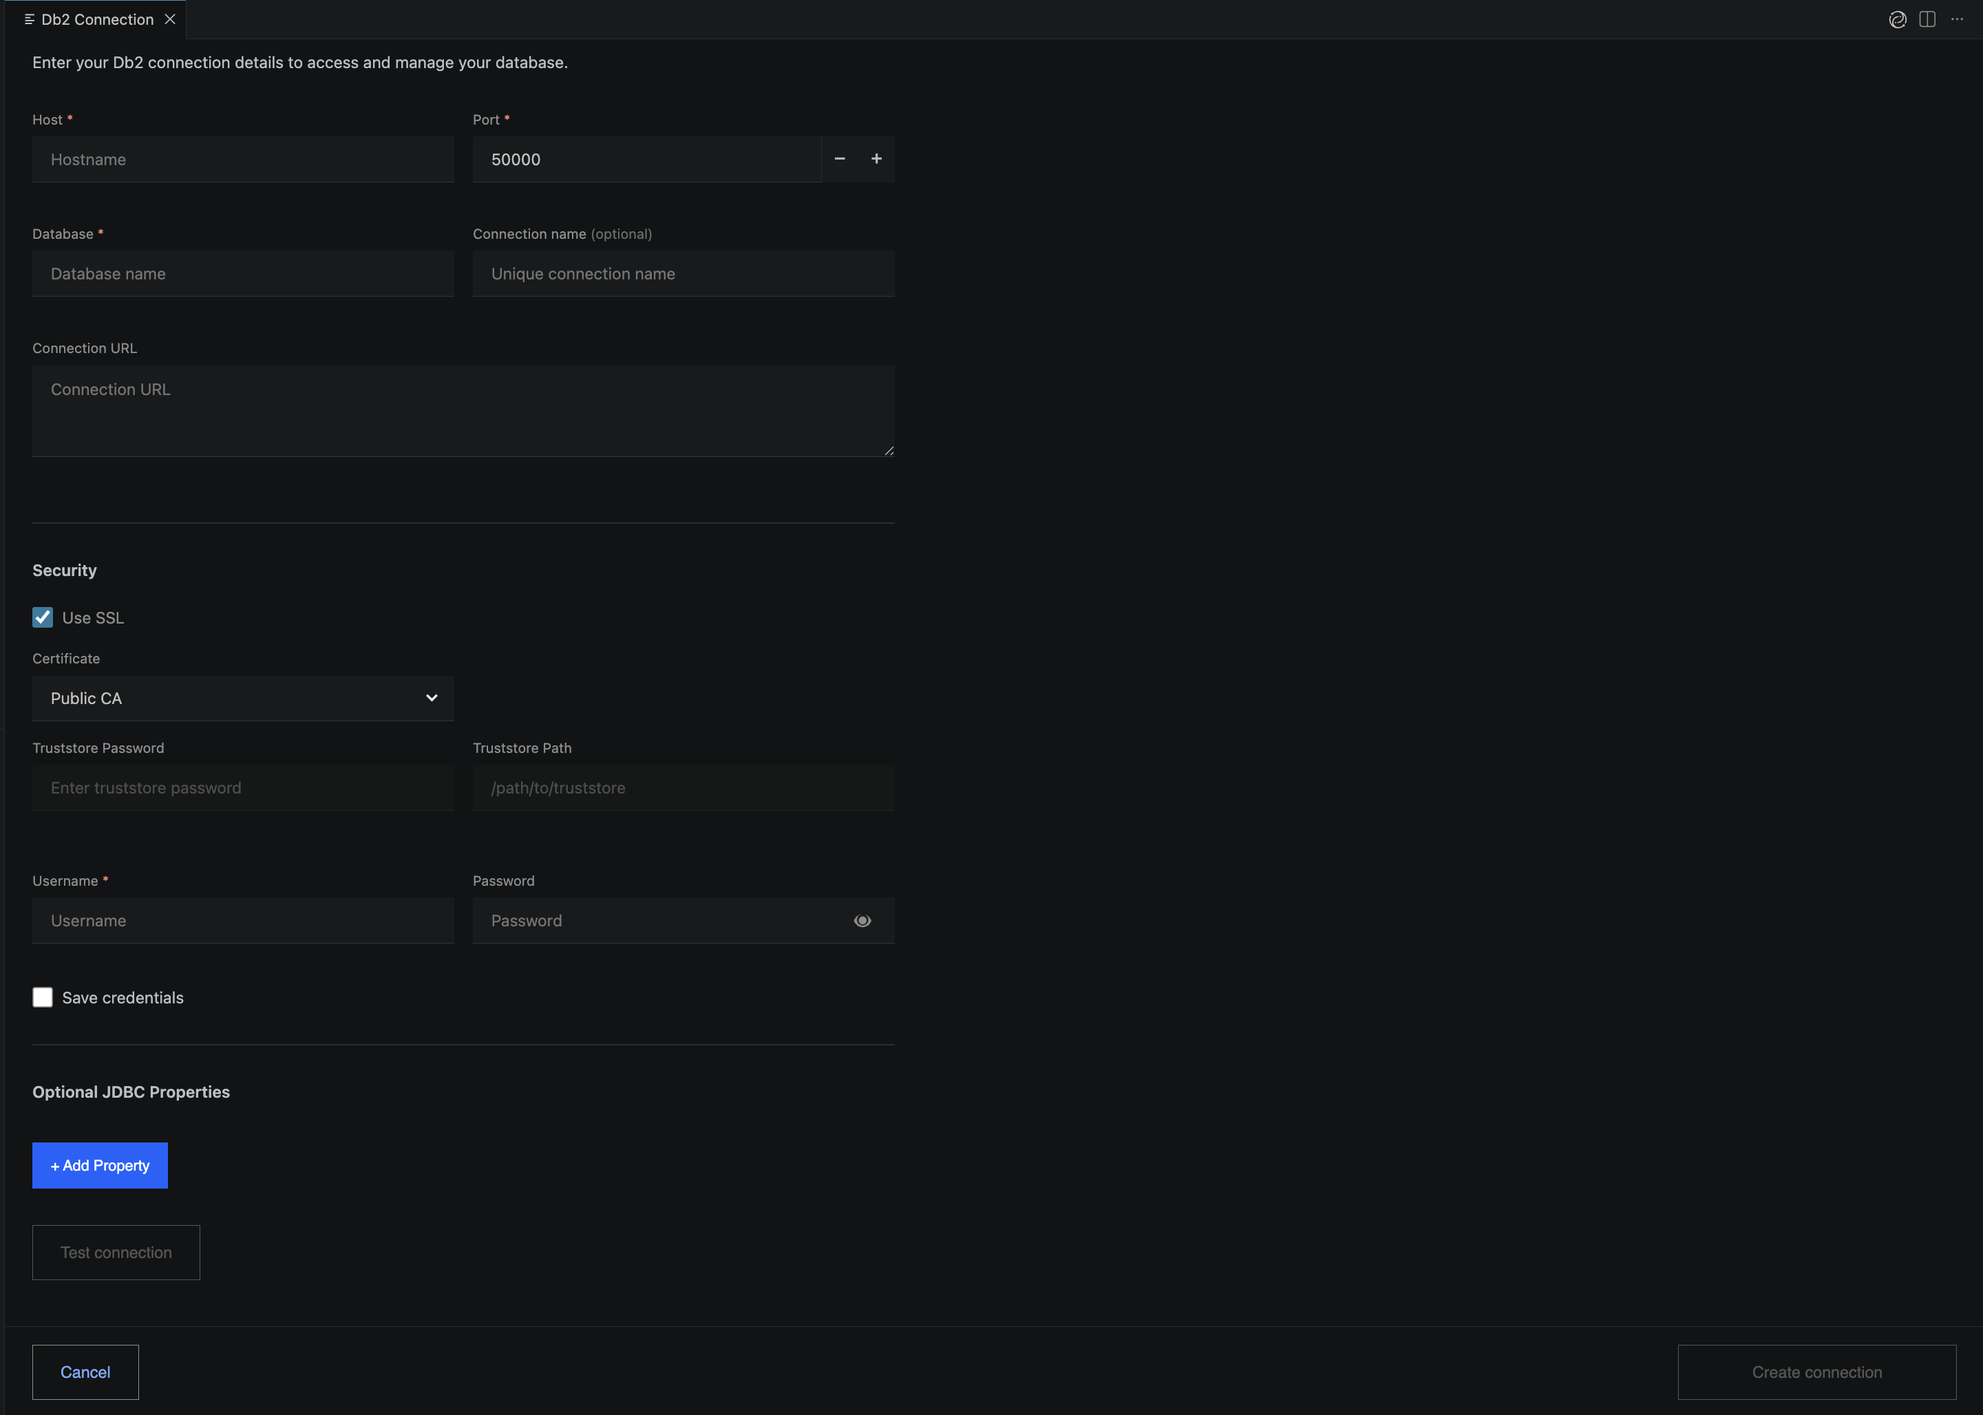
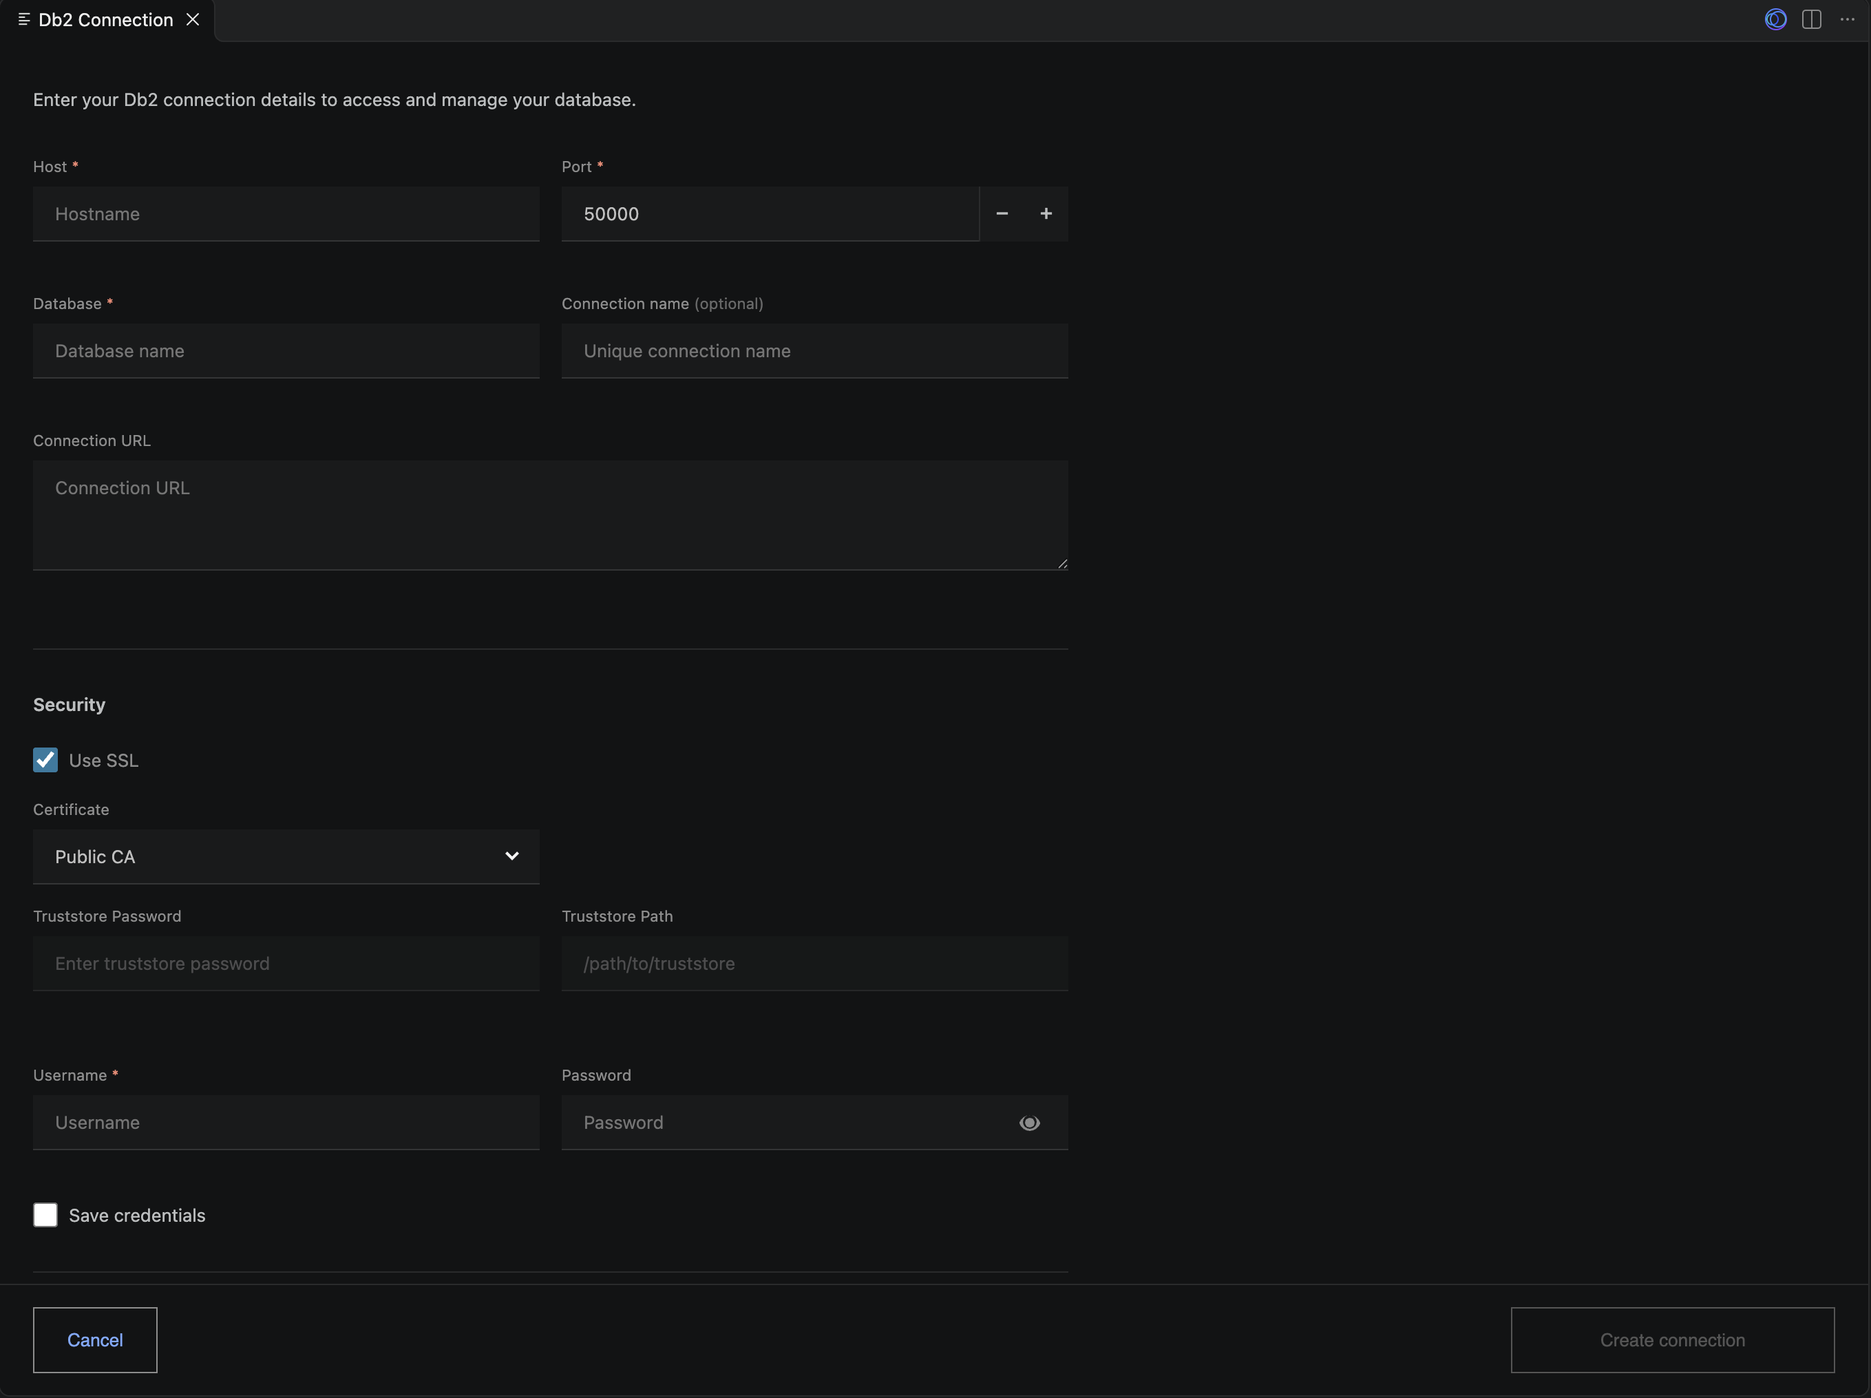
added topics

diff --git a/docs/working-with-Db2-objects/db2-time-machine.md b/docs/working-with-Db2-objects/db2-time-machine.md
@@ -4,56 +4,61 @@ title: "Viewing historical table data by using Db2 Time Machine"
 
 # {{ page.title }}
 
-Db2 Time Machine lets you view how the data in a temporal table looked at a specific point in time. You can compare the contents of a table at different times to understand how its data has changed. If a table doesn't track history yet, Db2 Time Machine shows the SQL statements that you need to run to enable it.
+Db2 Time Machine enables you to view how the data in a temporal table looked at a specific point in time. You can select a date and time to retrieve historical data and understand how records have changed over time.
+
+If a table does not track history yet, Db2 Time Machine provides an option to convert it into a temporal table by using Genius AI.
 
 ## Before you begin
 
-Db2 Time Machine is locked until you log in to Genius Hub. Log in to Genius Hub before you use the feature. For more information, see [Connecting to Genius Hub]({{site.baseurl}}/docs/working-with-sql/querying-data-by-using-natural-language#connecting-to-genius-hub).
+Db2 Time Machine requires you to log in to Genius Hub. Sign in through the **Account** view in the sidebar before using this feature.
 
+For more information, see [Connecting to Genius Hub]({{site.baseurl}}/docs/working-with-sql/querying-data-by-using-natural-language#connecting-to-genius-hub).
 
 ## Viewing the history of a temporal table
 
-A temporal table records every change (INSERT, UPDATE, and DELETE) so that you can query the data as it looked at any past moment.
+A temporal table maintains historical versions of its data, allowing you to retrieve records as they existed at a specific point in time.
 
 1. In the **Db2 Connections** pane, expand the connection, schema, and **Tables** folder.
-2. Right-click the table, and then click **See History**.
+2. Right-click the temporal table and select **See History**.
 
-   The table details open on the **Time Machine** tab. You can also open the table and click the **Time Machine** tab.
+   Alternatively, open the table and select the **Time Machine** tab.
 
-3. In the **View data as of** field, select the date and time that you want to view. To select the date and time, use one of the following methods:
-   - In the **Timeline navigator**, drag the slider to a year between 2000 and the current year, or click one of the **Jump to** buttons.
-   - Use the **Month**, **Day**, **Hour**, **Min**, and **Sec** lists to set the exact time.
-   - Click **Use current time** to select the current date and time.
+3. In the **Time Machine** view, select the date and time for which you want to retrieve historical data. You can use the following options:
+   - **Jump to**: Select one of the available year shortcuts to quickly navigate to a historical point in time.
+   - **Present time**: Select the current date and time.
+   - **Choose a date**: Select a specific date using the date picker.
+   - **Choose a time**: Specify the exact time using the time field and AM/PM selector.
+   - **Clear**: Reset the selected date and time.
 
-   The **Selected** label under the lists shows the date and time that you chose.
+4. Review the generated SQL query. Db2 Time Machine generates a query using the `FOR SYSTEM_TIME AS OF` clause and the selected timestamp. For example:
 
-4. Click **View history**.
+   ```sql
+   SELECT *
+   FROM "ALL_OBJECTS_WITH_DATA"."PRICE_HISTORY"
+   FOR SYSTEM_TIME AS OF TIMESTAMP('2026-11-09 16:27:26');
+   ```
 
-   
+5. Click **Run** to execute the query and retrieve the historical data.
 
-To compare the table at another point in time, select a different date and time, and then click **View history** again.
+   You can also use **Save** to save the generated SQL for later use.
 
-Each time you view the history of a table, IBM Db2 Genius Code saves an entry to **Query History** that starts with `Time Machine:` followed by the table name.
+Each time you execute a Time Machine query, an entry is added to **Query History**, making it easier to revisit previously executed historical queries.
 
 ## Enabling history tracking for a table
 
-If the table that you select is not a temporal table, the **Time Machine** tab shows the message **You can time travel through _table name_ soon** and indicates that the table does not yet track history.
+If the selected table is not temporal, the **Time Machine** tab displays a message indicating that the table does not track history yet.
 
-### Converting a table to a temporal table by using Genius AI
+You can convert the table into a temporal table by using Genius AI.
 
-1. On the **Time Machine** tab, click **Convert using Genius AI**.
+1. Open the non-temporal table and select the **Time Machine** tab.
+2. Click **Convert using Genius AI**.
+3. Genius AI generates the required SQL statements to enable temporal history tracking.
+4. Review the generated SQL and execute the statements to convert the table.
+5. Refresh the table and reopen the **Time Machine** tab to access historical data.
 
-   Genius AI generates the SQL statements needed to convert the table to a temporal table and displays them in the **Genius AI** panel.
+After history tracking is enabled, Db2 automatically maintains historical versions of the table data.
 
-2. Click **Open** (↗) to open the generated statements in the **Db2 SQL Editor**.
-3. Run the statements one by one in the order they are shown:
-   - **Step 1**: Add the system-period columns `SYS_START`, `SYS_END`, and `TRANS_ID` to the table.
-   - **Step 2**: Create a history table that has the same structure as the table. The history table name is the table name followed by `_HISTORY`.
-   - **Step 3**: Enable versioning by linking the base table to the history table.
-4. Refresh the table, and then open the **Time Machine** tab again.
+> **Note:** Db2 captures history only from the moment versioning is enabled. Changes made before enabling versioning are not tracked retroactively.
+{: .note-right}
 
-To learn more about temporal tables, click **Db2 docs** on the **Time Machine** tab.
-
-**Note:** Db2 captures history from the moment that versioning is enabled. Earlier changes are not tracked retroactively.
-
-
+To learn more about temporal tables, see the Db2 documentation available from the extension.

diff --git a/docs/the-basics/creating-a-database-connection.md b/docs/the-basics/creating-a-database-connection.md
@@ -65,26 +65,35 @@ You can see the following information about the instance:
 ---
 To work with IBM Db2 databases, you need to create a database connection to connect to the required database within the Db2 instance.
 
-1. In the **Db2 Connections** pane, click **Add connection** button or **Add connection** ![Adding a database connection]({{site.baseurl}}/assets/images/add-database-connection.png){:width="25" :height="25"} to open the **Db2 Connection** workflow in a new editor tab.
-![Adding a database connection]({{site.baseurl}}/assets/images/add-db2-connection.png)
+1. In the **Db2 Connections** pane, click **Add connection** or **Add connection** ![Adding a database connection]({{site.baseurl}}/assets/images/add-database-connection.png){:width="25" :height="25"} to open the **Db2 Connection** form in a new editor tab.
+
+   ![Adding a database connection]({{site.baseurl}}/assets/images/add-db2-connection.png)
 
 2. Enter the connection details by using one of the following methods:
-      - Enter the **Host**, **Port**, and **Database**. The extension automatically generates the **Connection URL** from these fields.
-      - Paste the JDBC URL for your Db2 database (for example, `jdbc:db2://<host>:<port>/<database>`) in the **Connection URL** field. The extension automatically populates the other fields from the URL.
+   - Enter the **Host**, **Port**, and **Database**. The extension automatically generates the **Connection URL** from these fields. The default port is `50000`.
+   - Paste the JDBC URL for your Db2 database (for example, `jdbc:db2://<host>:<port>/<database>`) in the **Connection URL** field. The extension automatically populates the other fields from the URL.
 
    Optionally, enter a unique **Connection name** to identify the connection in the **Db2 Connections** pane.
-3. (Optional) Under the **Security** section, select **Use SSL** to enable SSL encryption for the database connection. When enabled, SSL properties (such as `sslConnection=true` and `sslCertificateType=StandardCA`) are automatically added to **Optional JDBC Properties**, and you can configure:
-      - **Certificate**: Select the SSL certificate type (**Public CA** is selected by default; other options include **JKS** and **PKCS12**).
-      - **Truststore Password**: Enter the password for your truststore file (if applicable).
-      - **Truststore Path**: Provide the file system path to your truststore file (if applicable).
+
+3. Under the **Security** section, **Use SSL** is selected by default. SSL properties (`sslConnection=true` and `sslCertificateType=StandardCA`) are automatically added to **Optional JDBC Properties**. You can configure the following SSL options:
+   - **Certificate**: Select the SSL certificate type. **Public CA** is selected by default. Other options include **JKS** and **PKCS12**.
+   - **Truststore Password**: Enter the password for your truststore file (if applicable).
+   - **Truststore Path**: Provide the file system path to your truststore file (if applicable).
+
+   To disable SSL encryption, clear the **Use SSL** checkbox.
+
 4. Enter your connection credentials:
-      - **Username \***: Enter the username to access the Db2 database. (Required field).
-      - **Password**: Enter the password to access the Db2 database. You can click the eye icon to toggle password visibility.
+   - **Username \***: Enter the username to access the Db2 database. This is a required field.
+   - **Password**: Enter the password to access the Db2 database. Click the eye icon to toggle password visibility.
+
 5. (Optional) Select the **Save credentials** checkbox to save your credentials securely in Visual Studio Code. If you do not select this checkbox, the extension prompts you for the password each time that you connect.
-6. (Optional) In the **Optional JDBC Properties** section, review automatically populated properties or click **+ Add Property** to add custom JDBC connection properties as key-value pairs. Click **Remove** to delete a property.
+
+6. (Optional) In the **Optional JDBC Properties** section, review the automatically populated properties. When **Use SSL** is selected, `sslConnection` and `sslCertificateType` properties are pre-populated. To add a custom property, click **+ Add Property**. A new row with **Name** and **Value** fields appears. Enter the property name and value, and click **Remove** to delete the row if needed.
+
 7. (Optional) Click **Test connection** to verify the connection details before you create the connection.
+
 8. Click **Create connection**.
-   If your connection was created successfully, you can see it on the **Db2 Connections** pane. Click **Cancel** to close the tab without saving.
+   If the connection is created successfully, it appears in the **Db2 Connections** pane. Click **Cancel** to close the tab without saving.
 
 After you connect to the database, you can browse its schemas, data types, LOBs, and tables.
 

diff --git a/docs/the-basics/Exploring-Db2-objects.md b/docs/the-basics/Exploring-Db2-objects.md
@@ -38,23 +38,21 @@ When you click an object type in a schema, it expands to show all objects of tha
 
 ## Filtering schemas and tables {#filtering-objects}
 
-When you work with a large database, finding specific schemas or tables manually can take time. You can use the filter option (magnifying lens icon) in the **Db2 Connections** pane to narrow down the list:
+When you work with a large database, finding specific schemas or tables manually can take time. You can use the filter option in the **Db2 Connections** pane to narrow down the list:
 
 - **Filtering schemas under a database connection**:
-  1. Hover over a database connection and click the filter icon (magnifying lens).
+  1. Hover over a database connection and click **Filter schemas** (![Filter objects]({{site.baseurl}}/assets/images/filter-objects.png){:width="25" :height="25"}).
   2. In the input field that opens at the top of the editor, enter the schema name or pattern that you want to find.
   3. Press **Enter**. The connection expands to display only the matching schema.
 
 - **Filtering tables in a schema**:
-  1. Expand the schema, hover over **Tables**, and click the filter icon (magnifying lens).
+  1. Expand the schema, hover over **Tables**, and click **Filter objects** (![Filter objects]({{site.baseurl}}/assets/images/filter-objects.png){:width="25" :height="25"}).
   2. In the input field, enter the table name or prefix (for example, `emp`).
   3. Press **Enter**. The schema displays only the tables that match the criteria (for example, tables starting with `emp`).
 
 ### Removing a filter
 
-To remove filtering and restore the full list of schemas or tables:
-- Click the close button (**×**) next to the filtered item, or
-- Click the filter icon again, clear the input field (leave it empty), and press **Enter**.
+To remove filtering and restore the full list of schemas or tables, click the close button (**×**) next to the filtered item.
 
 ## Viewing table details in a schema {#tables-schema-id}
 
@@ -73,20 +71,20 @@ To remove filtering and restore the full list of schemas or tables:
    - Owner: The user who owns the table. 
    - Created time: Date and time when the table was created in the database.
    - Organization Type: Specifies how the data within the table is physically organized. Common types include row-organized or column-organized.
-2. Click the table name that you want to view (for example, EMPMDC table). It displays the following details. 
+2. Click the table name that you want to view. It displays the following details.
 
 
-   ![Connecting to database]({{site.baseurl}}/assets/images/single-table-details.png)
+   ![Table details]({{site.baseurl}}/assets/images/single-table-details.png)
 
 
    - Properties: General details such as table name, schema name, type, encoding scheme, owner.
-   - Columns: Lists all column names along with their data types and constraints.        
+   - Columns: Lists all column names along with their data types and constraints.
    - Constraints: Rules that apply to table columns.
    - Indexes: Shows relationships with other objects (like views or indexes).
    - Data: Shows the actual rows that are stored in the table.
    
    
-You can also view the details of a particular table by expanding the Tables section under the schema in the Db2 Connections pane and clicking the table name. For example, EMPMDC. For more information about the table properties, see [Exploring table object details](../working-with-Db2-objects/Db2-objects.md).
+You can also view the details of a particular table by expanding the **Tables** section under the schema in the **Db2 Connections** pane and clicking the table name. For more information about the table properties, see [Exploring table object details](../working-with-Db2-objects/Db2-objects.md).
 
 
 You can follow the same process to explore other Db2 objects. 

diff --git a/docs/working-with-Db2-objects/Db2-objects.md b/docs/working-with-Db2-objects/Db2-objects.md
@@ -17,28 +17,29 @@ In Db2, every table is associated with a set of metadata and structural componen
 1. Click the database connection and then the schema that you want.
 2. Expand the **Tables** section and click the table name. It shows the following table details:
 
-      ![Adding a database connection]({{site.baseurl}}/assets/images/table-properties.png)
+      ![Table properties]({{site.baseurl}}/assets/images/single-table-details.png)
 
       
-   **Properties**: General details such as table name, schema name, type, encoding scheme, owner, etc.
+   **Properties**: General details such as table name, schema name, type, encoding scheme, owner, and more.
    
    
-   The Properties tab shows the following details:
+   The **Properties** tab shows the following details:
+   - Name: Name of the table.
    - Schema: Schema under which the table resides.
    - Database: Database name.
    - Table space: Logical storage location.
-   - Type: Object type (Table).
+   - Type: Object type (for example, T for table).
    - Encoding scheme: Character encoding used for the text data in the table (for example, UTF-8).
-   - No. of primary key columns: Number of columns that are defined as the primary key in metadata.
+   - No. of primary key columns: Number of columns that are defined as the primary key.
    - Partition key: Indicates if the table is partitioned and how many columns are used as partition keys.
    - Restrict on drop: Prevents accidental table deletion until you explicitly remove the restriction.
-   - Append on: If set to Yes, new rows are appended at the end of the table. Here, it is disabled.
+   - Append on: If set to Yes, new rows are appended at the end of the table.
    - Control: Indicates whether special control features are enabled.
    - Auditing: Specifies if auditing is enabled for this table. Auditing tracks changes for compliance.
    - Data capture: Indicates whether data capture for replication or change tracking is enabled.
    - Owner: The user who owns the table.
    - Cardinality: Estimated number of rows in the table.
-   - Statistics time: Shows the timestamp of the last statistics update. A default value indicates that statistics have not yet been collected.
+   - Statistics time: Timestamp of the last statistics update. A default value indicates that statistics have not yet been collected.
    - Created time: Timestamp indicating when the table was created.
    - Altered time: Timestamp indicating when the table was last modified.
 
